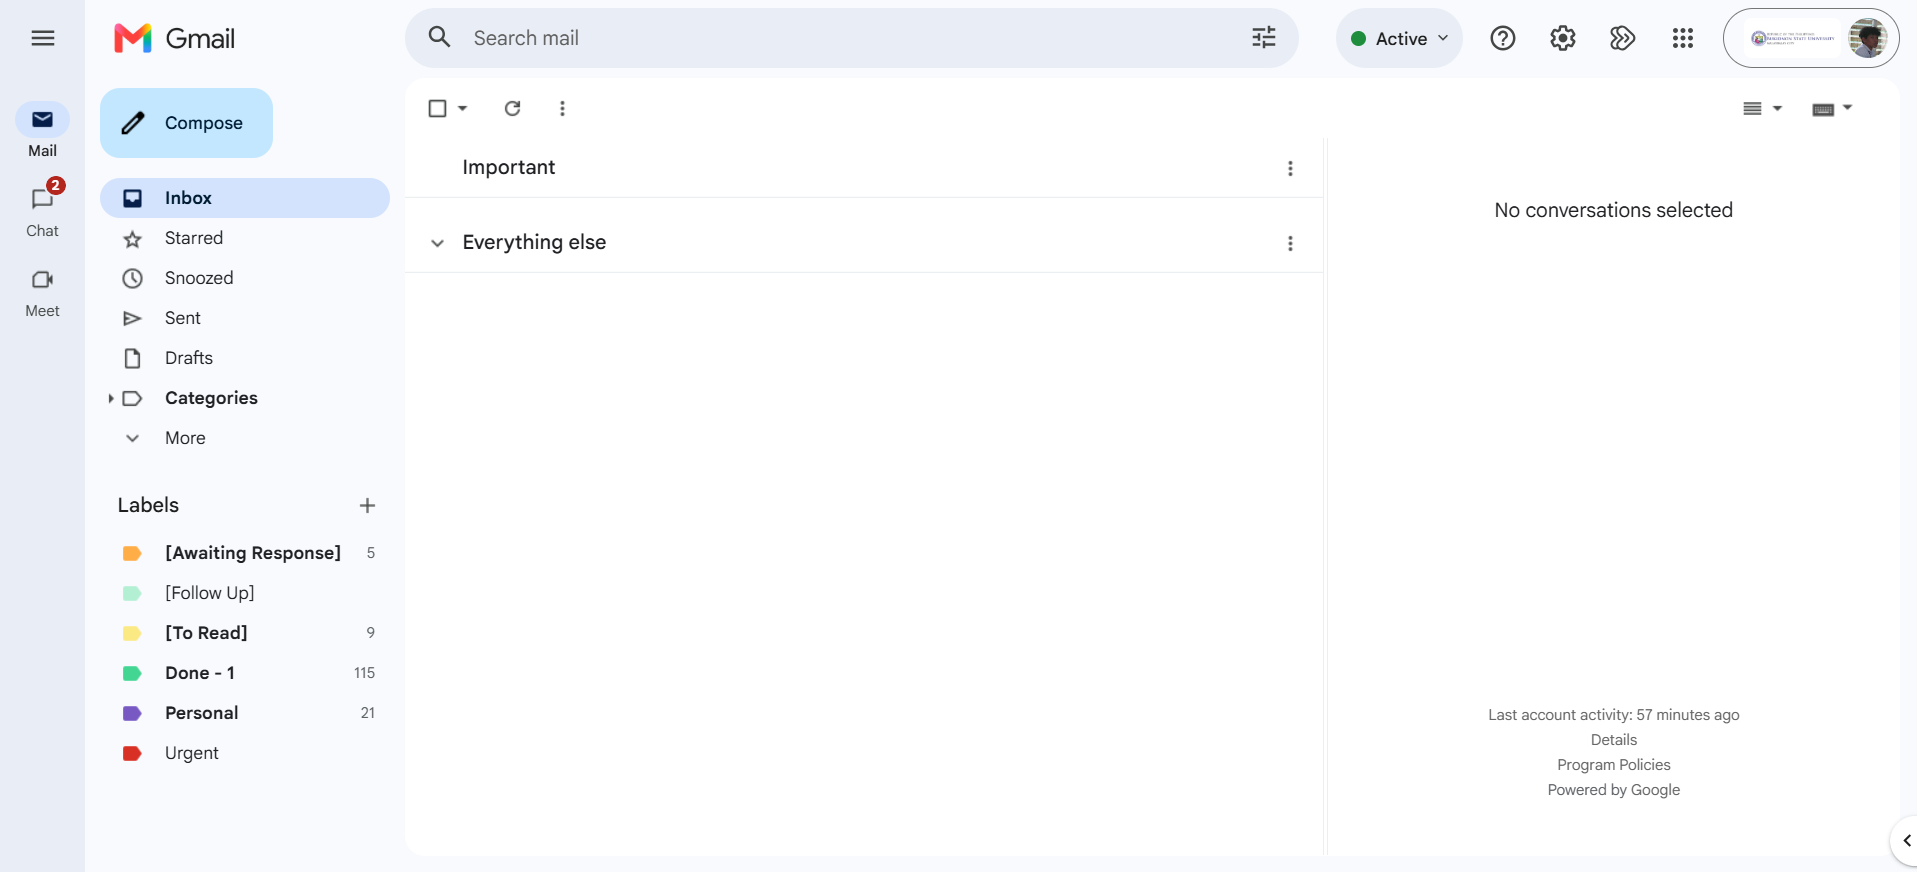
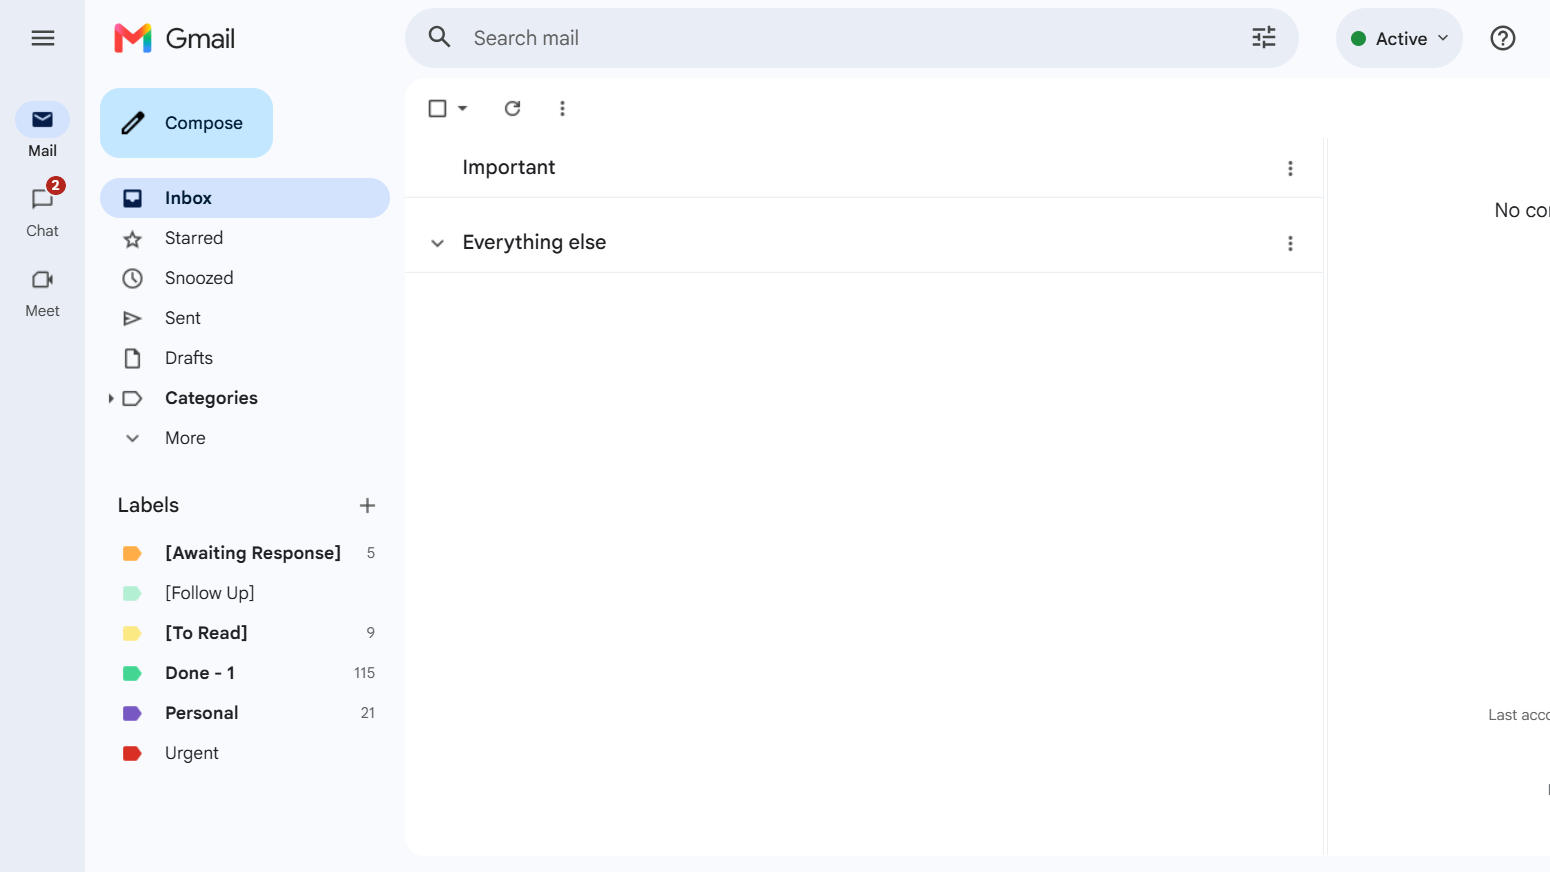
additions

diff --git a/assets/js/project-data.js b/assets/js/project-data.js
@@ -128,7 +128,8 @@ const projects = [
     title: "Email Management/Zero Inbox",
     label: "Practice Project",
     category: "productivity",
-    description: "Turned my student email from messy to clean",
+    description:
+      "The Challenge: An overflowing inbox buried in promotional noise, clutter, and unorganized threads. The Solution: Cleared the backlog by deleting promotional and unnecessary emails, then built a clean structural framework by creating custom labels to organize remaining messages.The Result: Transformed a chaotic inbox into a clean, categorized Workspace Zero, making future emails easy to find and manage instantly",
     techStack: [
       {
         name: "Microsoft Excel",
